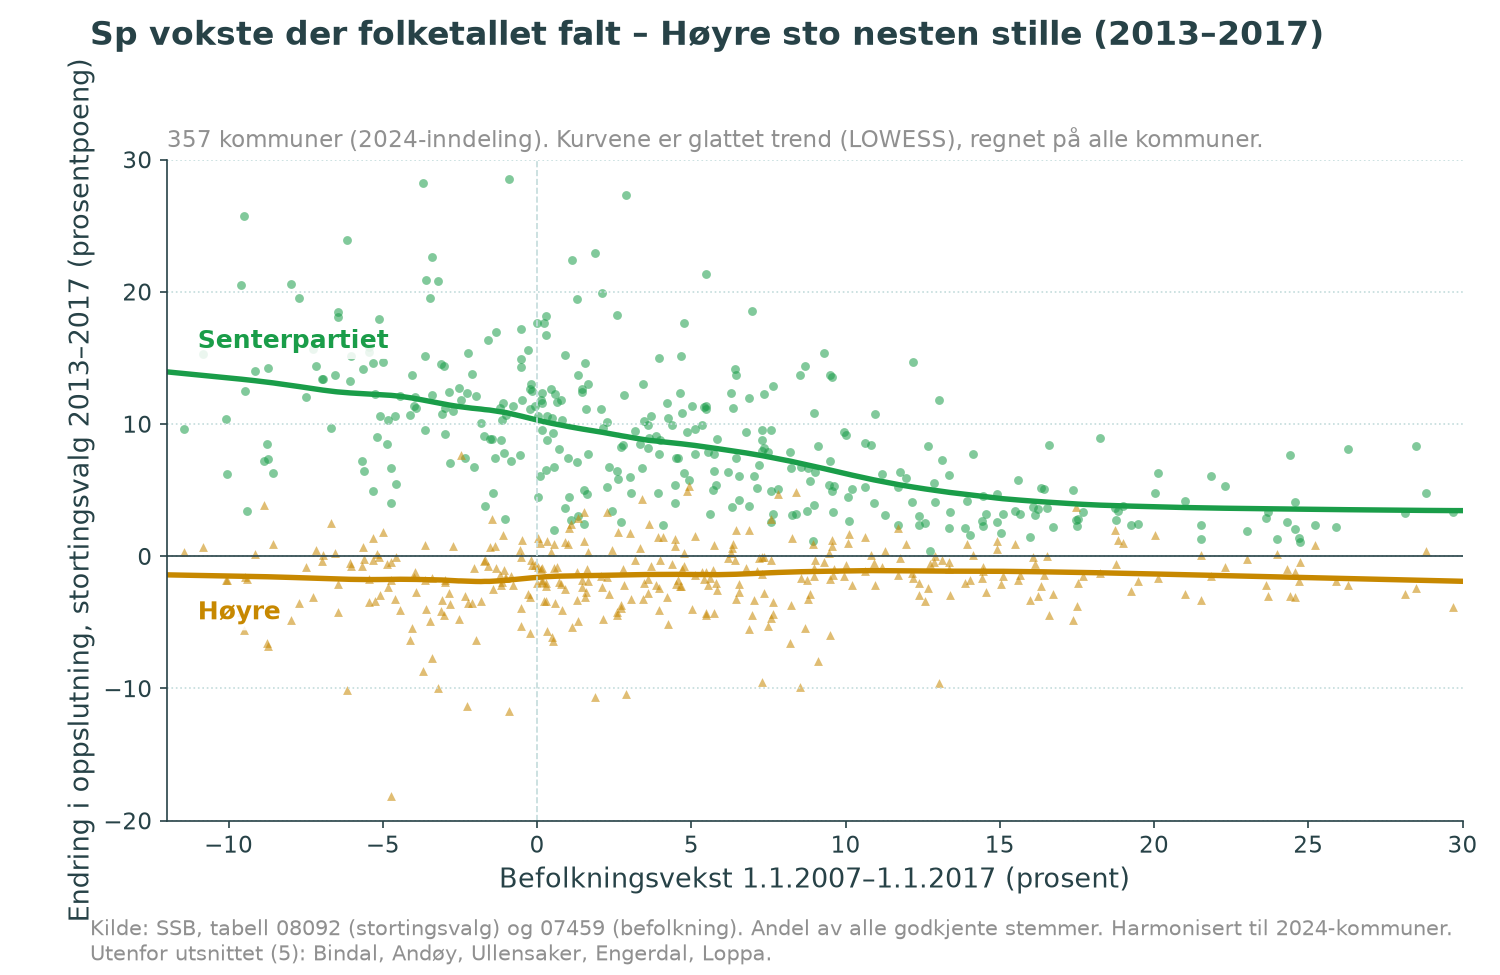
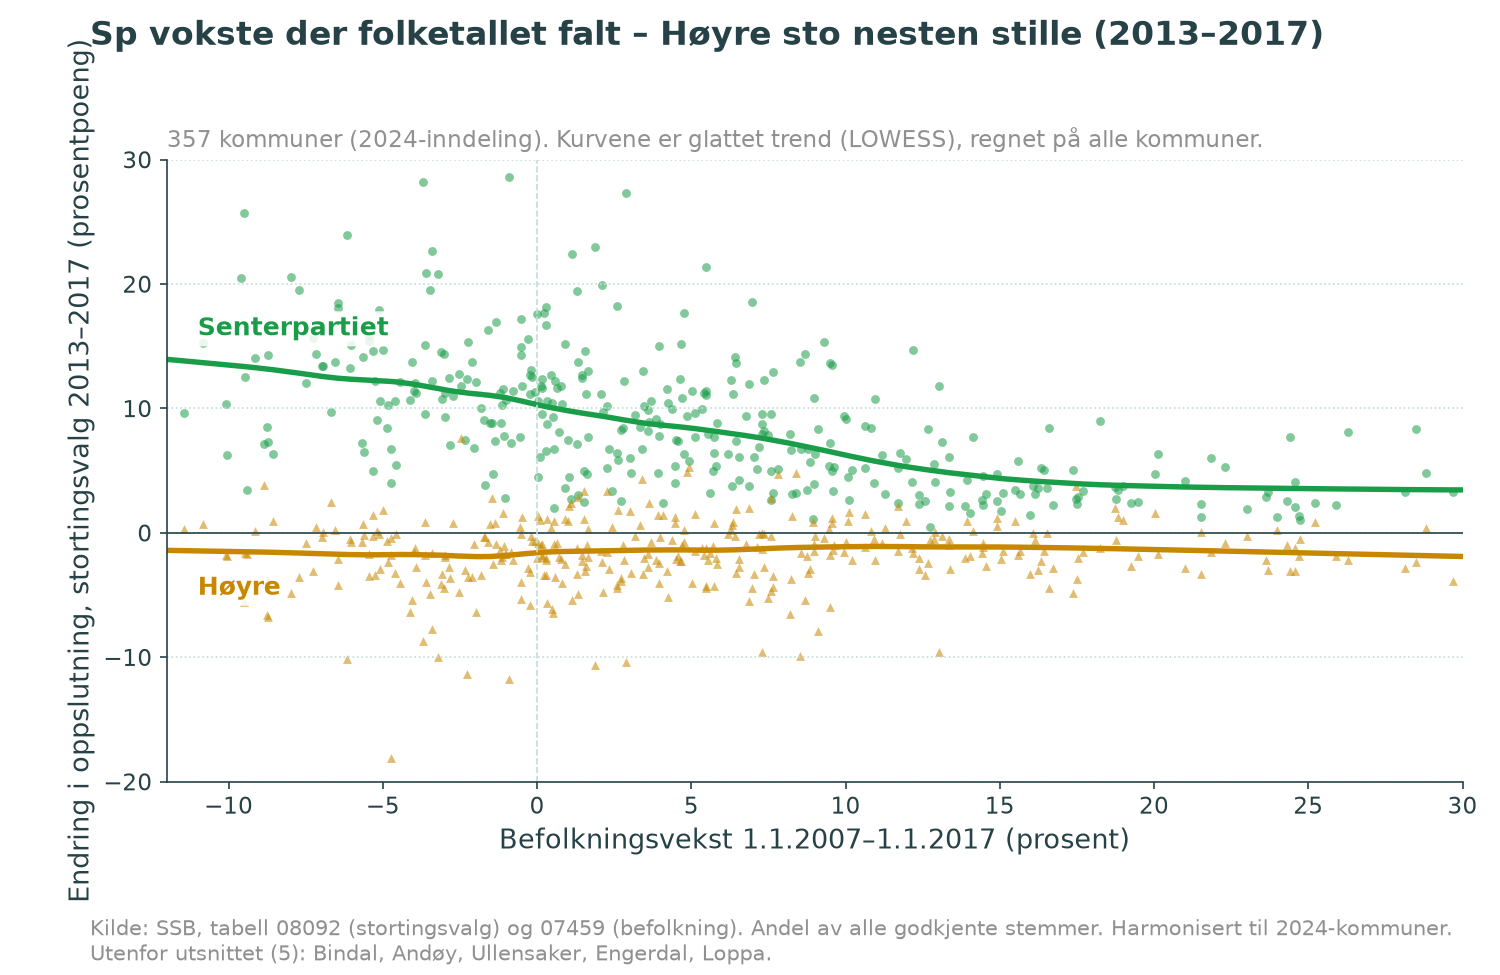
Figurer Sp mot Ap/Høyre for 2009–2013; periode som parameter
Claude-Session: https://claude.ai/code/session_01Gpixwi4b6B6pqozujPHFCG

diff --git a/analyse/figur_parti_vs_befolkning.py b/analyse/figur_parti_vs_befolkning.py
@@ -2,9 +2,10 @@
 """Spredningsdiagram: endring i Sp og ett annet parti 2013→2017 (pp) mot befolkningsvekst 2007–2017 (%),
 per 2024-kommune, med glattet trend (LOWESS).
 
-Bruk: python analyse/figur_parti_vs_befolkning.py ap|h|frp|krf|sv|v|mdg|rodt
+Bruk: python analyse/figur_parti_vs_befolkning.py ap|h|frp|krf|sv|v|mdg|rodt [periode, f.eks. 2009-2013]
 """
 import sys
+import textwrap
 from pathlib import Path
 
 import matplotlib
@@ -16,15 +17,19 @@ from statsmodels.nonparametric.smoothers_lowess import lowess
 
 ROT = Path(__file__).resolve().parent.parent
 p = pd.read_csv(ROT / "turnering" / "data" / "panel.csv", dtype={"kom2024": str})
-d = p[p["periode"] == "2013-2017"]
+PERIODE = sys.argv[2] if len(sys.argv) > 2 else "2013-2017"
+T0, T1 = (int(a) for a in PERIODE.split("-"))
+d = p[p["periode"] == PERIODE]
 
 TEKST, GRÅ, RUTE = "#274247", "#909090", "#C3DCDC"
 # Fast farge per parti på tvers av figurene (SSB-palett); Sp er alltid grønn
 PARTI = {"ap": ("Arbeiderpartiet", "#1D9DE2"), "h": ("Høyre", "#C78800"), "frp": ("Fremskrittspartiet", "#0F2080"),
          "krf": ("Kristelig Folkeparti", "#C775A7"), "sv": ("SV", "#A3136C"), "v": ("Venstre", "#075745"),
          "mdg": ("MDG", "#471F00"), "rodt": ("Rødt", "#909090")}
-TITTEL = {"ap": "Sp vokste og Ap falt mest der folketallet gikk ned (2013–2017)",
-          "h": "Sp vokste der folketallet falt – Høyre sto nesten stille (2013–2017)"}
+TITTEL = {("ap", "2013-2017"): "Sp vokste og Ap falt mest der folketallet gikk ned (2013–2017)",
+          ("h", "2013-2017"): "Sp vokste der folketallet falt – Høyre sto nesten stille (2013–2017)",
+          ("ap", "2009-2013"): "Ingen tydelig sammenheng med folketallet for Sp og Ap (2009–2013)",
+          ("h", "2009-2013"): "Høyre vokste mest der folketallet vokste – Sp sto stille (2009–2013)"}
 annet = sys.argv[1] if len(sys.argv) > 1 else "ap"
 navn2, farge2 = PARTI[annet]
 serier = [("d_sp", "Senterpartiet", "#1A9D49", "o"), (f"d_{annet}", navn2, farge2, "^")]
@@ -36,13 +41,18 @@ x = d["vekst10_pst"]
 k2 = f"d_{annet}"
 utenfor = d[(x < X_UT[0]) | (x > X_UT[1]) | (d["d_sp"] > Y_UT[1]) | (d["d_sp"] < Y_UT[0])
             | (d[k2] > Y_UT[1]) | (d[k2] < Y_UT[0])]
+kurver = {}
 for kol, navn, farge, markør in serier:
     ax.scatter(x, d[kol], s=18, color=farge, marker=markør, alpha=0.55, linewidths=0, label=navn)
     kurve = lowess(d[kol], x, frac=0.4, return_sorted=True)
     ax.plot(kurve[:, 0], kurve[:, 1], color=farge, lw=2.6)
-    x0 = -11
-    y0 = np.interp(x0, kurve[:, 0], kurve[:, 1])
-    ax.annotate(navn, xy=(x0, y0), xytext=(0, 16 if kol == "d_sp" else -18), textcoords="offset points",
+    kurver[kol] = kurve
+# Etiketter ved venstre kant: øverste kurve merkes over, nederste under
+x0 = -11
+y0 = {k: np.interp(x0, c[:, 0], c[:, 1]) for k, c in kurver.items()}
+øverst = max(y0, key=y0.get)
+for kol, navn, farge, _ in serier:
+    ax.annotate(navn, xy=(x0, y0[kol]), xytext=(0, 16 if kol == øverst else -18), textcoords="offset points",
                 ha="left", va="center", color=farge, fontsize=12, fontweight="bold",
                 bbox=dict(boxstyle="round,pad=0.2", fc="white", ec="none", alpha=0.85))
 
@@ -51,20 +61,20 @@ ax.axvline(0, color=RUTE, lw=0.8, ls="--")
 ax.grid(axis="y", color=RUTE, ls=":", lw=0.8)
 for s in ("top", "right"):
     ax.spines[s].set_visible(False)
-ax.set_xlabel("Befolkningsvekst 1.1.2007–1.1.2017 (prosent)", fontsize=13, color=TEKST)
-ax.set_ylabel("Endring i oppslutning, stortingsvalg 2013–2017 (prosentpoeng)", fontsize=13, color=TEKST)
+ax.set_xlabel(f"Befolkningsvekst 1.1.{T1 - 10}–1.1.{T1} (prosent)", fontsize=13, color=TEKST)
+ax.set_ylabel(f"Endring i oppslutning, stortingsvalg {T0}–{T1} (prosentpoeng)", fontsize=13, color=TEKST)
 ax.tick_params(colors=TEKST, labelsize=11)
 ax.set_xlim(*X_UT)
 ax.set_ylim(*Y_UT)
-fig.suptitle(TITTEL.get(annet, f"Endring for Sp og {navn2} etter befolkningsutvikling (2013–2017)"),
+fig.suptitle(TITTEL.get((annet, PERIODE), f"Endring for Sp og {navn2} etter befolkningsutvikling ({T0}–{T1})"),
              x=0.06, ha="left", fontsize=16, fontweight="bold", color=TEKST, family=["Roboto Condensed", "DejaVu Sans"])
 ax.set_title("357 kommuner (2024-inndeling). Kurvene er glattet trend (LOWESS), regnet på alle kommuner.",
              loc="left", fontsize=11, color=GRÅ)
 fig.text(0.06, 0.015, "Kilde: SSB, tabell 08092 (stortingsvalg) og 07459 (befolkning). Andel av alle godkjente stemmer. "
          "Harmonisert til 2024-kommuner.\n"
-         f"Utenfor utsnittet ({len(utenfor)}): " + ", ".join(utenfor["navn"].str.split(" - ").str[0]) + ".",
+         + textwrap.fill(f"Utenfor utsnittet ({len(utenfor)}): " + ", ".join(utenfor["navn"].str.split(" - ").str[0]) + ".", 125),
          fontsize=10, color=GRÅ)
-fig.tight_layout(rect=(0.03, 0.06, 1, 0.95))
-ut = ROT / "figurer" / f"{annet}_sp_2013_2017_befolkning.png"
+fig.tight_layout(rect=(0.03, 0.10, 1, 0.95))
+ut = ROT / "figurer" / f"{annet}_sp_{T0}_{T1}_befolkning.png"
 fig.savefig(ut, facecolor="white")
 print(ut)
